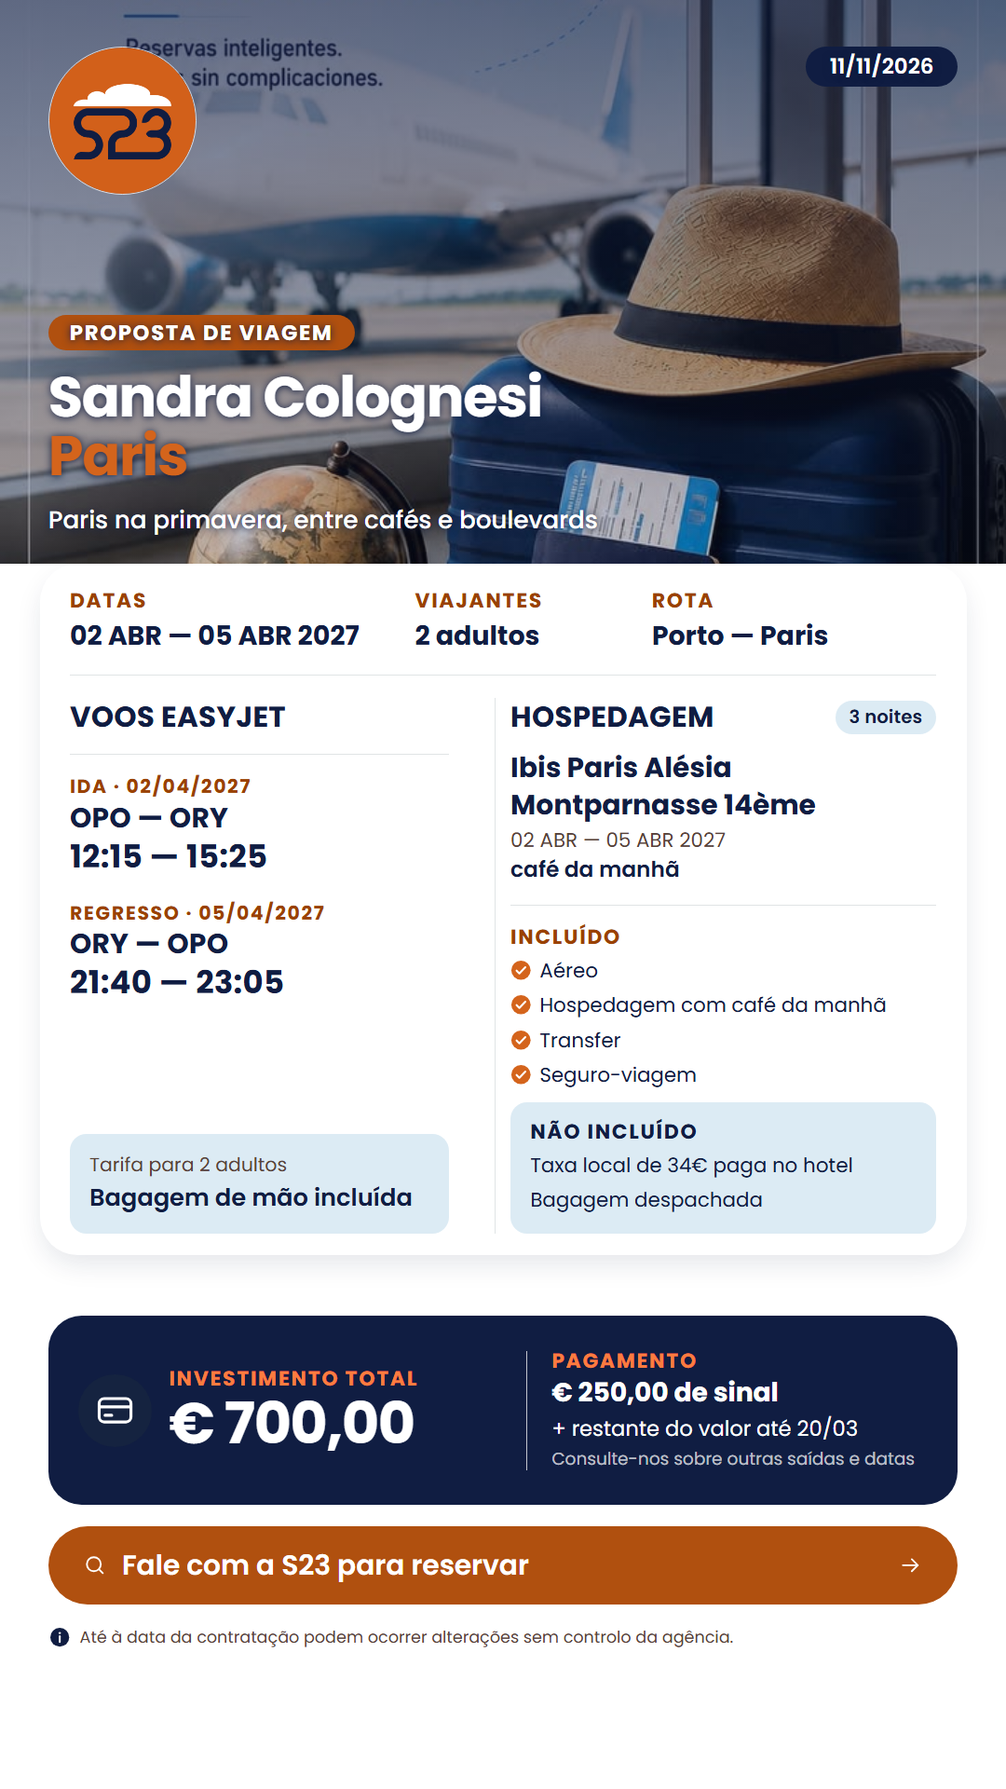
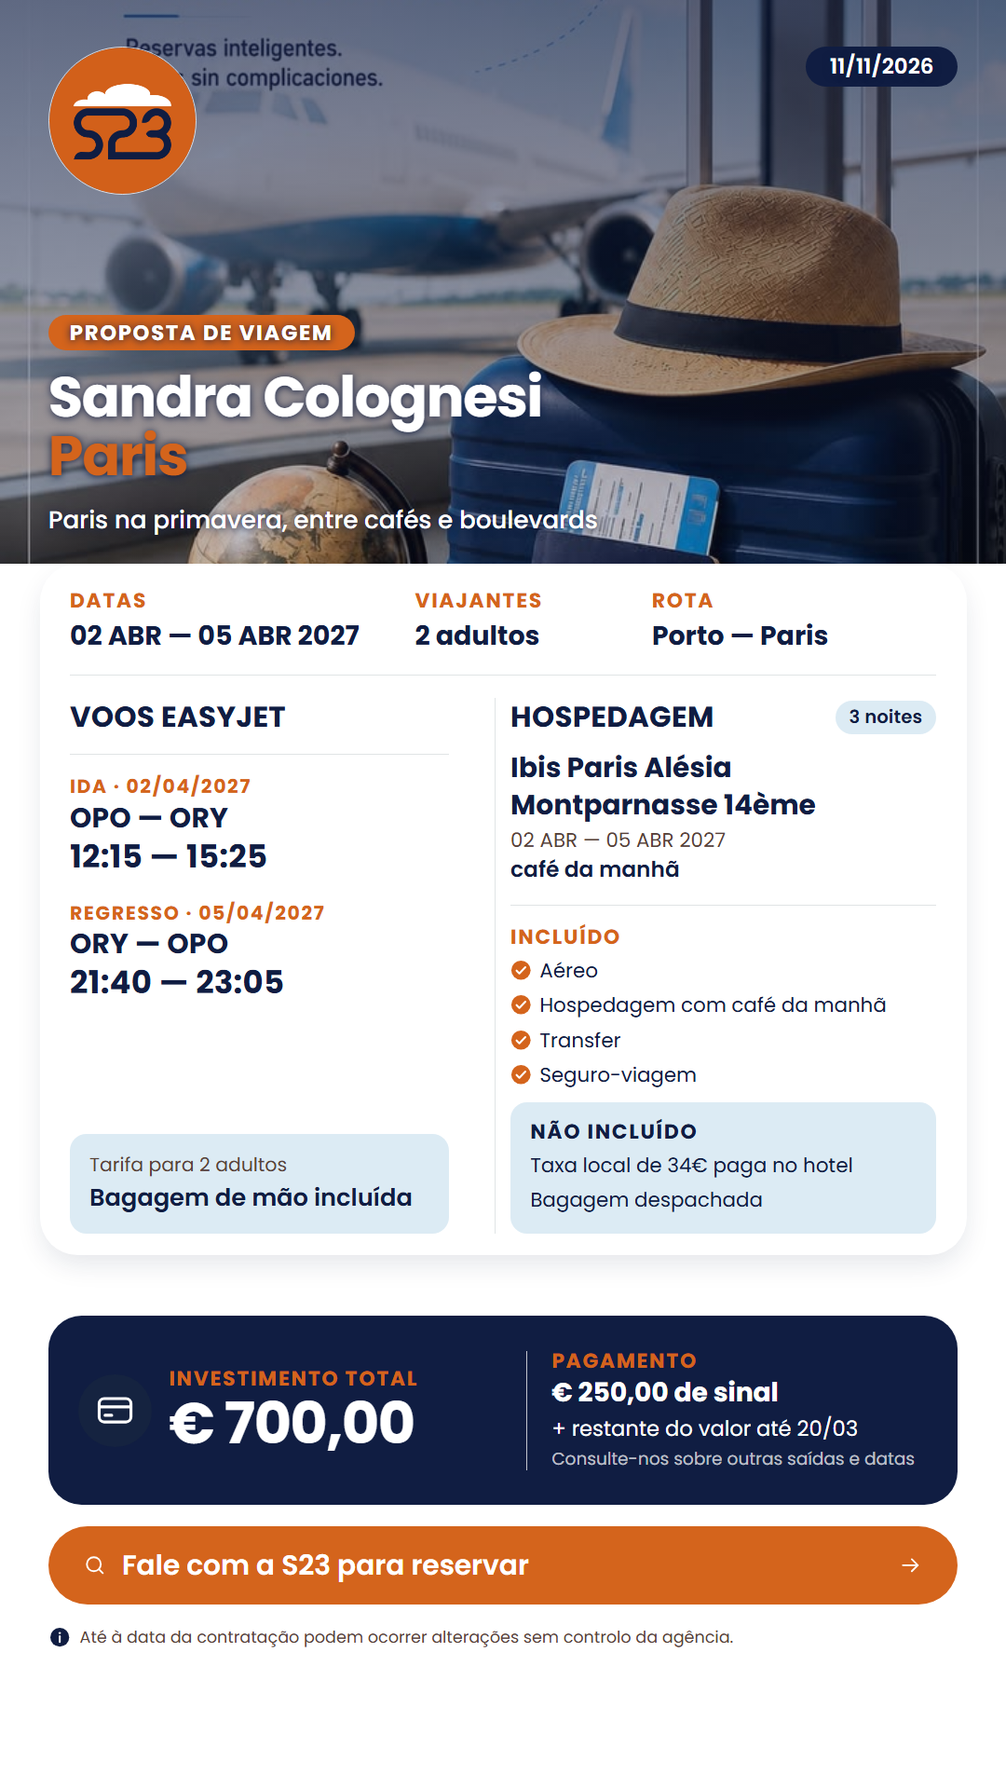
Unifica o download em PNG, alinha o laranja e o regime da hospedagem

diff --git a/tests/test_flyer_download.ts b/tests/test_flyer_download.ts
@@ -1,90 +1,52 @@
 import assert from 'node:assert/strict';
-import { convertPngToJpg, flyerDownloadName, sanitizeFlyerFilePart, triggerFlyerDownload } from '../src/services/flyerDownload';
+import { flyerDownloadName, sanitizeFlyerFilePart, triggerFlyerDownload } from '../src/services/flyerDownload';
 
 // Nome do ficheiro: mesmo resultado da lâmina de pacote antes da extração.
 assert.equal(sanitizeFlyerFilePart('Açores'), 'acores');
 assert.equal(sanitizeFlyerFilePart('  COT-2026-059  '), 'cot-2026-059');
 assert.equal(sanitizeFlyerFilePart(''), '');
-assert.equal(flyerDownloadName('lamina', ['Açores'], 'jpg'), 'lamina-acores.jpg');
+assert.equal(flyerDownloadName('lamina', ['Açores'], 'png'), 'lamina-acores.png');
 assert.equal(flyerDownloadName('lamina', ['Açores'], 'html'), 'lamina-acores.html');
 assert.equal(flyerDownloadName('lamina', [''], 'png'), 'lamina-viagem.png');
-assert.equal(flyerDownloadName('lamina-cotacao', ['COT-2026-059', 'Paris'], 'jpg'), 'lamina-cotacao-cot-2026-059-paris.jpg');
+assert.equal(flyerDownloadName('lamina-cotacao', ['COT-2026-059', 'Paris'], 'png'), 'lamina-cotacao-cot-2026-059-paris.png');
 console.log('Nome do ficheiro: OK');
 
-interface FakeCanvas { toBlob: (callback: (blob: Blob | null) => void, type?: string) => void }
-const bitmap = { width: 1080, height: 1920, closed: false, close() { this.closed = true; } };
+// Download: entrega o PNG do servidor sem recompressão e revoga o URL temporário.
+const originalDocument = globalThis.document;
+const originalCreateObjectURL = URL.createObjectURL;
+const originalRevokeObjectURL = URL.revokeObjectURL;
+const originalSetTimeout = globalThis.setTimeout;
+const clicked: string[] = [];
+const revoked: string[] = [];
+let appended = 0;
+let urlCount = 0;
 
-async function withDom(options: { context?: object | null; jpeg?: boolean; nullBlob?: boolean }, run: (state: {
-  canvas: FakeCanvas; clicked: string[]; revoked: string[]; appended: number;
-}) => Promise<void>) {
-  const originalCreateImageBitmap = globalThis.createImageBitmap;
-  const originalDocument = globalThis.document;
-  const originalCreateObjectURL = URL.createObjectURL;
-  const originalRevokeObjectURL = URL.revokeObjectURL;
-  const originalSetTimeout = globalThis.setTimeout;
-  const state = { canvas: null as unknown as FakeCanvas, clicked: [] as string[], revoked: [] as string[], appended: 0 };
-  let urlCount = 0;
-  globalThis.createImageBitmap = async () => bitmap as unknown as ImageBitmap;
-  state.canvas = {
-    toBlob(callback, type) {
-      if (options.nullBlob) { callback(null); return; }
-      callback(new Blob(['imagem'], { type: options.jpeg === false ? 'image/png' : type }));
-    },
-  };
-  (globalThis as { document?: unknown }).document = {
-    createElement(tag: string) {
-      if (tag === 'canvas') {
-        return { width: 0, height: 0, getContext: () => options.context === undefined ? { drawImage: () => undefined } : options.context, toBlob: state.canvas.toBlob };
-      }
-      return {
-        href: '', download: '',
-        click(this: { download: string }) { state.clicked.push(this.download); },
-        remove() { /* noop */ },
-      };
-    },
-    body: { appendChild() { state.appended += 1; } },
-  };
-  URL.createObjectURL = () => `blob:teste-${++urlCount}`;
-  URL.revokeObjectURL = (url: string) => { state.revoked.push(url); };
-  (globalThis as { setTimeout: unknown }).setTimeout = (callback: () => void) => { callback(); return 0; };
-  try {
-    await run(state);
-  } finally {
-    globalThis.createImageBitmap = originalCreateImageBitmap;
-    (globalThis as { document?: unknown }).document = originalDocument;
-    URL.createObjectURL = originalCreateObjectURL;
-    URL.revokeObjectURL = originalRevokeObjectURL;
-    (globalThis as { setTimeout: unknown }).setTimeout = originalSetTimeout;
-  }
-}
+(globalThis as { document?: unknown }).document = {
+  createElement() {
+    return {
+      href: '', download: '',
+      click(this: { download: string }) { clicked.push(this.download); },
+      remove() { /* noop */ },
+    };
+  },
+  body: { appendChild() { appended += 1; } },
+};
+URL.createObjectURL = () => `blob:teste-${++urlCount}`;
+URL.revokeObjectURL = (url: string) => { revoked.push(url); };
+(globalThis as { setTimeout: unknown }).setTimeout = (callback: () => void) => { callback(); return 0; };
 
-await withDom({}, async state => {
-  const jpg = await convertPngToJpg(new Blob(['png'], { type: 'image/png' }));
-  assert.equal(jpg.type, 'image/jpeg');
-  assert.equal(bitmap.closed, true, 'o bitmap precisa ser libertado');
-
+try {
   const tracked = new Set<string>();
-  triggerFlyerDownload(jpg, flyerDownloadName('lamina', ['Açores'], 'jpg'), tracked);
-  assert.deepEqual(state.clicked, ['lamina-acores.jpg']);
-  assert.equal(state.appended, 1);
+  const png = new Blob(['png'], { type: 'image/png' });
+  triggerFlyerDownload(png, flyerDownloadName('lamina', ['Açores'], 'png'), tracked);
+  assert.deepEqual(clicked, ['lamina-acores.png']);
+  assert.equal(appended, 1);
   assert.equal(tracked.size, 0, 'o URL temporário sai do registo após o download');
-  assert.deepEqual(state.revoked, ['blob:teste-1']);
-});
-console.log('Conversão PNG→JPG e download: OK');
-
-await withDom({ context: null }, async () => {
-  bitmap.closed = false;
-  await assert.rejects(() => convertPngToJpg(new Blob(['png'], { type: 'image/png' })), /preparar a conversão/);
-  assert.equal(bitmap.closed, true, 'o bitmap é libertado quando falta o contexto');
-});
-await withDom({ jpeg: false }, async () => {
-  bitmap.closed = false;
-  await assert.rejects(() => convertPngToJpg(new Blob(['png'], { type: 'image/png' })), /não foi convertida/);
-  assert.equal(bitmap.closed, true, 'o bitmap é libertado quando o canvas devolve outro formato');
-});
-await withDom({ nullBlob: true }, async () => {
-  bitmap.closed = false;
-  await assert.rejects(() => convertPngToJpg(new Blob(['png'], { type: 'image/png' })), /converter a lâmina/);
-  assert.equal(bitmap.closed, true, 'o bitmap é libertado quando o canvas falha');
-});
-console.log('Falhas da conversão: OK');
+  assert.deepEqual(revoked, ['blob:teste-1']);
+} finally {
+  (globalThis as { document?: unknown }).document = originalDocument;
+  URL.createObjectURL = originalCreateObjectURL;
+  URL.revokeObjectURL = originalRevokeObjectURL;
+  (globalThis as { setTimeout: unknown }).setTimeout = originalSetTimeout;
+}
+console.log('Download PNG: OK');

diff --git a/tests/quotation_flyer_flow.browser.tsx b/tests/quotation_flyer_flow.browser.tsx
@@ -219,7 +219,7 @@ async function run() {
     assert(window.flyerFlowTest.publications[0].quotationId === 'cot-fixture', 'O salvamento não usou a cotação atual');
     assert(container.textContent?.includes('Lâmina salva nesta cotação.'), 'A interface não confirmou a lâmina salva');
 
-    // 7. Download HTML e IMAGEM (JPG real convertido do PNG).
+    // 7. Download HTML e IMAGEM (PNG do servidor, sem recompressão).
     downloadedBlobType = '';
     downloadedFileName = '';
     await click('HTML');
@@ -233,8 +233,8 @@ async function run() {
     await click('IMAGEM');
     await tick();
     assert(window.flyerFlowTest.savedDownloads.join(',') === 'cot-fixture:html,cot-fixture:png', 'O PNG salvo não foi pedido');
-    assert(downloadedBlobType === 'image/jpeg', 'O botão IMAGEM não entregou JPG');
-    assert(downloadedFileName === 'lamina-cotacao-cot-2026-059-paris.jpg', `Nome do JPG inesperado: ${downloadedFileName}`);
+    assert(downloadedBlobType === 'image/png', 'O botão IMAGEM não entregou PNG');
+    assert(downloadedFileName === 'lamina-cotacao-cot-2026-059-paris.png', `Nome do PNG inesperado: ${downloadedFileName}`);
 
     // 8. Cotação arquivada mantém a lâmina salva acessível, sem desarquivar.
     const archivedQuote: Quotation = { ...quote, archived_at: '2026-11-11T12:00:00Z' };
@@ -263,9 +263,9 @@ async function run() {
     await click('IMAGEM');
     await tick();
     assert(window.flyerFlowTest.savedDownloads.at(-1) === 'cot-incompleta:png', 'A lâmina salva não ficou baixável com dados em falta');
-    assert(downloadedBlobType === 'image/jpeg', 'A lâmina salva com dados em falta não entregou JPG');
+    assert(downloadedBlobType === 'image/png', 'A lâmina salva com dados em falta não entregou PNG');
     assert(
-      downloadedFileName === 'lamina-cotacao-cot-2026-060-lisboa.jpg',
+      downloadedFileName === 'lamina-cotacao-cot-2026-060-lisboa.png',
       `O nome do ficheiro deve vir da cotação, mesmo sem modelo local: ${downloadedFileName}`
     );
 
@@ -273,7 +273,7 @@ async function run() {
     assert(window.flyerFlowTest.confirmations.length === 0, `Houve confirmação: ${window.flyerFlowTest.confirmations.join(' | ')}`);
     assert(!container.textContent?.includes('Revisei'), 'A tela voltou a exigir aceites');
 
-    return 'Fluxo da cotação: lâmina salva independente do modelo, IA, revisão, prévia, publicação e downloads HTML/JPG';
+    return 'Fluxo da cotação: lâmina salva independente do modelo, IA, revisão, prévia, publicação e downloads HTML/PNG';
   } finally {
     await act(async () => { root.unmount(); });
     URL.createObjectURL = originalCreateObjectURL;

diff --git a/src/services/quotationFlyerService.ts b/src/services/quotationFlyerService.ts
@@ -100,6 +100,9 @@ const PRICE_MAX = 20;
 
 const MONTHS = ['JAN', 'FEV', 'MAR', 'ABR', 'MAI', 'JUN', 'JUL', 'AGO', 'SET', 'OUT', 'NOV', 'DEZ'] as const;
 
+/** O editor mostra «Café da manhã (BB)» quando o serviço não traz regime; a peça segue o mesmo default. */
+const DEFAULT_MEAL_PLAN = 'Café da manhã (BB)';
+
 interface DateParts {
   day: string;
   month: string;
@@ -367,6 +370,13 @@ export function createQuotationFlyer(quote: Quotation): QuotationFlyerResult {
   }
 
   const { isLegacy, services } = resolveFlyerServices(data, normalized);
+  // Serviços antigos podem não ter regime gravado; o editor sempre apresentou
+  // café da manhã como default, por isso a peça usa o mesmo valor.
+  const flyerServices = services.map(service =>
+    service?.type === 'accommodation' && !service.mealPlan
+      ? { ...service, mealPlan: DEFAULT_MEAL_PLAN }
+      : service
+  );
 
   const depositAmount = parseDepositAmount(data.depositAmount);
   const deposit = typeof depositAmount === 'number' && depositAmount > 0
@@ -383,7 +393,7 @@ export function createQuotationFlyer(quote: Quotation): QuotationFlyerResult {
   const period = validDate(start) && validDate(end) ? formatShortPeriod(start, end) : '';
   if (period.length > PERIOD_MAX) warnings.push('Período longo demais para a lâmina.');
 
-  const included = deriveIncluded(data, services, isLegacy, warnings);
+  const included = deriveIncluded(data, flyerServices, isLegacy, warnings);
   const notIncluded = deriveNotIncluded(data.notIncluded, warnings);
 
   if (errors.length || !validDate(start) || !validDate(end) || !validTotal) {
@@ -408,8 +418,8 @@ export function createQuotationFlyer(quote: Quotation): QuotationFlyerResult {
       destination,
       dates: { period, start: formatIsoDate(start), end: formatIsoDate(end) },
       passengers: { adults, children, infants, label },
-      transport: deriveTransport(services, start, end, origin, destination, adults, children, warnings),
-      lodging: deriveLodging(services, start, end, data.dates?.durationNights, warnings),
+      transport: deriveTransport(flyerServices, start, end, origin, destination, adults, children, warnings),
+      lodging: deriveLodging(flyerServices, start, end, data.dates?.durationNights, warnings),
       included,
       notIncluded,
       price: {

diff --git a/src/services/flyerDownload.ts b/src/services/flyerDownload.ts
@@ -1,5 +1,5 @@
-/** Formatos de download da lâmina salva: o servidor guarda PNG/HTML; o JPG é convertido no cliente. */
-export type FlyerDownloadFormat = 'html' | 'png' | 'jpg';
+/** Formatos de download da lâmina salva: o servidor guarda PNG/HTML e a imagem é entregue sem recompressão. */
+export type FlyerDownloadFormat = 'html' | 'png';
 
 /** Reduz um trecho a slug seguro para nome de ficheiro (sem acentos nem pontuação). */
 export function sanitizeFlyerFilePart(value: string): string {
@@ -14,26 +14,6 @@ export function sanitizeFlyerFilePart(value: string): string {
 export function flyerDownloadName(prefix: string, parts: string[], format: FlyerDownloadFormat): string {
   const subject = parts.map(sanitizeFlyerFilePart).filter(Boolean).join('-') || 'viagem';
   return `${sanitizeFlyerFilePart(prefix) || 'lamina'}-${subject}.${format}`;
-}
-
-/** Converte o PNG devolvido pelo servidor em JPG; falha em vez de rotular mal o ficheiro. */
-export async function convertPngToJpg(png: Blob): Promise<Blob> {
-  const bitmap = await createImageBitmap(png);
-  try {
-    const canvas = document.createElement('canvas');
-    canvas.width = bitmap.width;
-    canvas.height = bitmap.height;
-    const context = canvas.getContext('2d');
-    if (!context) throw new Error('Não foi possível preparar a conversão para JPG.');
-    context.drawImage(bitmap, 0, 0);
-    const jpg = await new Promise<Blob>((resolve, reject) => {
-      canvas.toBlob(image => image ? resolve(image) : reject(new Error('Não foi possível converter a lâmina para JPG.')), 'image/jpeg', 0.92);
-    });
-    if (jpg.type !== 'image/jpeg') throw new Error('A lâmina não foi convertida para JPG.');
-    return jpg;
-  } finally {
-    bitmap.close();
-  }
 }
 
 /** Entrega o Blob ao browser e mantém o registo dos URLs temporários para revogação. */

diff --git a/src/components/quotes/quotationFlyer.css b/src/components/quotes/quotationFlyer.css
@@ -78,7 +78,7 @@
 .quotation-flyer__tag {
   padding: calc(var(--flyer-gap) * 0.28) calc(var(--flyer-gap) * 0.85);
   border-radius: var(--radius-pill);
-  background: var(--color-primary);
+  background: var(--color-accent);
   color: var(--color-on-primary);
   font-size: calc(var(--flyer-text-small) * 0.95);
   font-weight: var(--weight-bold);
@@ -132,7 +132,7 @@
 }
 .quotation-flyer__fact span,
 .quotation-flyer__label {
-  color: var(--color-primary-strong);
+  color: var(--color-accent);
   font-size: calc(var(--flyer-text-small) * 0.92);
   font-weight: var(--weight-bold);
   letter-spacing: var(--text-label-tracking);
@@ -204,7 +204,7 @@
 }
 .quotation-flyer__leg-label {
   margin: 0;
-  color: var(--color-primary-strong);
+  color: var(--color-accent);
   font-size: calc(var(--flyer-text-small) * 0.86);
   font-weight: var(--weight-bold);
   letter-spacing: var(--text-label-tracking);
@@ -360,7 +360,7 @@
   width: 55%;
 }
 .quotation-flyer__investment .quotation-flyer__label {
-  color: var(--color-accent-glow);
+  color: var(--color-accent);
 }
 .quotation-flyer__amount {
   display: block;
@@ -400,7 +400,7 @@
   min-height: calc(var(--flyer-gap) * 3.1);
   padding: calc(var(--flyer-gap) * 0.42) calc(var(--flyer-padding) * 1.15);
   border-radius: var(--radius-pill);
-  background: var(--color-primary);
+  background: var(--color-accent);
   color: var(--color-on-primary);
 }
 .quotation-flyer__cta strong {

diff --git a/src/components/flyers/useFlyerCreator.ts b/src/components/flyers/useFlyerCreator.ts
@@ -7,7 +7,7 @@ import {
   normalizeItemLabel,
   type FlyerItem,
 } from '../../../supabase/functions/_shared/flyerItemsContract';
-import { convertPngToJpg, triggerFlyerDownload, type FlyerDownloadFormat } from '../../services/flyerDownload';
+import { triggerFlyerDownload, type FlyerDownloadFormat } from '../../services/flyerDownload';
 import type { FlyerAttachmentFormat, ReviewedFlyerImage } from '../../services/packageFlyerAttachmentService';
 
 /** Metadados da última versão salva, comuns ao pacote e à cotação. */
@@ -323,8 +323,7 @@ export function useFlyerCreator<TModel extends FlyerCreatorModel>(adapter: Flyer
     setError(null);
     try {
       const savedBlob = await adapterRef.current.downloadSavedFlyer(ownerId, format);
-      const blob = format === 'png' ? await convertPngToJpg(savedBlob) : savedBlob;
-      triggerFlyerDownload(blob, adapterRef.current.savedFileName(format === 'png' ? 'jpg' : format, flyer?.model?.destination), downloadUrls.current);
+      triggerFlyerDownload(savedBlob, adapterRef.current.savedFileName(format, flyer?.model?.destination), downloadUrls.current);
     } catch (downloadError) {
       setError(downloadError instanceof Error ? downloadError.message : 'Não foi possível baixar a lâmina salva.');
     } finally { setDownloading(null); }

diff --git a/src/pages/quotes/QuoteFormPage.tsx b/src/pages/quotes/QuoteFormPage.tsx
@@ -36,6 +36,15 @@ import {
   normalizeLegacyToNewStructure,
 } from '../../services/legacyAdapterService';
 
+/** O editor apresenta café da manhã quando o serviço não traz regime; gravar o default torna-o explícito. */
+function withDefaultMealPlan(items: ServiceItem[]): ServiceItem[] {
+  return items.map(item =>
+    item.type === 'accommodation' && !item.mealPlan
+      ? { ...item, mealPlan: 'Café da manhã (BB)' }
+      : item
+  );
+}
+
 export const QuoteFormPage: React.FC = () => {
   const { id } = useParams<{ id: string }>();
   const navigate = useNavigate();
@@ -364,7 +373,7 @@ export const QuoteFormPage: React.FC = () => {
         infants,
         origin,
         destination,
-        services,
+        services: withDefaultMealPlan(services),
         salePrice,
         paymentConditions,
         localTaxNotes,
@@ -595,7 +604,7 @@ export const QuoteFormPage: React.FC = () => {
       const quotationData: QuotationData = {
         origin: origin.trim() || undefined,
         destination: destination.trim(),
-        services,
+        services: withDefaultMealPlan(services),
         dates: {
           startDate,
           endDate,

diff --git a/tests/test_quotation_flyer.ts b/tests/test_quotation_flyer.ts
@@ -384,4 +384,21 @@ assert.deepEqual(pkgLegacy.model?.items, [
 assert.equal(pkgLegacy.model?.price.formatted, '€ 1.000,00');
 console.log('✅ Paridade do modelo de pacote');
 
+// Regime em falta: o editor mostra café da manhã, a peça segue o mesmo default.
+const withoutMealPlan = createQuotationFlyer({
+  ...quote,
+  data: {
+    ...quote.data,
+    services: quote.data.services!.map(service =>
+      service.type === 'accommodation' ? { ...service, mealPlan: undefined } : service
+    ),
+  },
+});
+assert.equal(withoutMealPlan.model?.lodging?.mealPlan, 'café da manhã', 'regime em falta usa o default do editor');
+assert.ok(
+  withoutMealPlan.model?.included.some(item => item.label === 'Hospedagem com café da manhã'),
+  'a lista de incluídos acompanha o default do regime'
+);
+console.log('✅ Regime da hospedagem em falta');
+
 console.log('\n🎉 TODOS OS TESTES DO MODELO DA COTAÇÃO PASSARAM!\n');

diff --git a/tests/package_flyer_flow.browser.tsx b/tests/package_flyer_flow.browser.tsx
@@ -148,8 +148,8 @@ async function run() {
     await click('IMAGEM');
     await act(async () => { await new Promise(resolve => setTimeout(resolve, 0)); });
     assert(window.flyerFlowTest.savedDownloads.join(',') === 'fixture:png', 'O PNG salvo não pôde ser baixado novamente');
-    assert(downloadedBlobType === 'image/jpeg', 'O arquivo baixado não foi convertido para JPG');
-    assert(downloadedFileName === 'lamina-acores.jpg', 'O nome do arquivo baixado não indica JPG');
+    assert(downloadedBlobType === 'image/png', 'O arquivo baixado não manteve o PNG do servidor');
+    assert(downloadedFileName === 'lamina-acores.png', 'O nome do arquivo baixado não indica PNG');
 
     const changedPricePackage = { ...pkg, data: {
       ...pkg.data,

diff --git a/docs/LAMINA-CONTRATO.md b/docs/LAMINA-CONTRATO.md
@@ -16,7 +16,7 @@ O rodapé usa o contato literal `zap: +351 960 153 290`, fornecido diretamente p
 
 ## Lâmina de cotação (proposta de viagem)
 
-A cotação tem uma peça própria, 9:16 em 1080 × 1920, para envio ao cliente real. O fluxo é o mesmo da lâmina de pacote — sugestão de imagem e subtítulo por IA, revisão sem caixas de confirmação, prévia final no servidor, salvamento da última versão e downloads HTML/IMAGEM — mas o template é o anexo aprovado em 2026-11-11 (hero com foto, título cliente/destino, barra de dados, cartões de voos e hospedagem, bloco navy de investimento, CTA e rodapé legal). A referência visual é `.scratch/laminas-cotacoes/preview-cotacao-9x16.png`. A caixa cinza continua a ser exclusiva da lâmina de pacote.
+A cotação tem uma peça própria, 9:16 em 1080 × 1920, para envio ao cliente real. O fluxo é o mesmo da lâmina de pacote — sugestão de imagem e subtítulo por IA, revisão sem caixas de confirmação, prévia final no servidor, salvamento da última versão e downloads HTML/IMAGEM — mas o template é o anexo aprovado em 2026-11-11 (hero com foto, título cliente/destino, barra de dados, cartões de voos e hospedagem, bloco navy de investimento, CTA e rodapé legal). O download «IMAGEM» entrega o PNG do servidor, sem conversão nem recompressão, nas duas lâminas. A referência visual é `.scratch/laminas-cotacoes/preview-cotacao-9x16.png`. A caixa cinza continua a ser exclusiva da lâmina de pacote.
 
 `createQuotationFlyer` em `src/services/quotationFlyerService.ts` produz `QuotationFlyerModel` versão 1 com `template: 'quotation'`: `clientName` (1.ª linha do título, obrigatório), `proposalDate` (`DD/MM/AAAA`), `origin`, `destination` (2.ª linha), `dates`, `passengers`, `transport` (ida/regresso com companhia de `ServiceItem.carrier`, rota extraída dos códigos entre parênteses do `description`, datas do cabeçalho, horários, tarifa e bagagem), `lodging`, `included`, `notIncluded`, `price`, `deposit` e `balanceDueDate`. Não entram referência, validade, `paymentConditions`, notas antigas, custos, margens, fornecedores nem observações internas. A moeda e os valores usam `formatMoney` da app (`€ 700,00`); nenhum preço é recalculado no template.
 

diff --git a/.scratch/laminas-cotacoes/spec.md b/.scratch/laminas-cotacoes/spec.md
@@ -26,6 +26,9 @@ Onde o texto anterior divergir, valem estas decisões:
 6. **Moeda:** usar o formato da app (`formatMoney`, ex.: `€ 700,00`), não o formato `700,00 €` do mockup.
 7. **Título:** nome do cliente + destino, sem duração.
 8. **Referência visual aprovada:** `.scratch/laminas-cotacoes/preview-cotacao-9x16.png` (1080 × 1920), com os ajustes visuais registados.
+9. **Formato da imagem (2026-11-11):** o download «IMAGEM» entrega o PNG do servidor, sem conversão para JPG, no pacote e na cotação — o mesmo padrão para ambas as lâminas.
+10. **Laranja (2026-11-11):** blocos, formas e letras usam `--color-accent` (terracotta-600), o laranja mais claro do kit; deixa de haver `--color-primary`/`--color-primary-strong` na peça.
+11. **Regime da hospedagem:** quando o serviço não traz `mealPlan`, a peça usa «Café da manhã (BB)», o mesmo default que o editor apresenta, e o formulário passa a gravar esse valor.
 
 ## Problema
 
